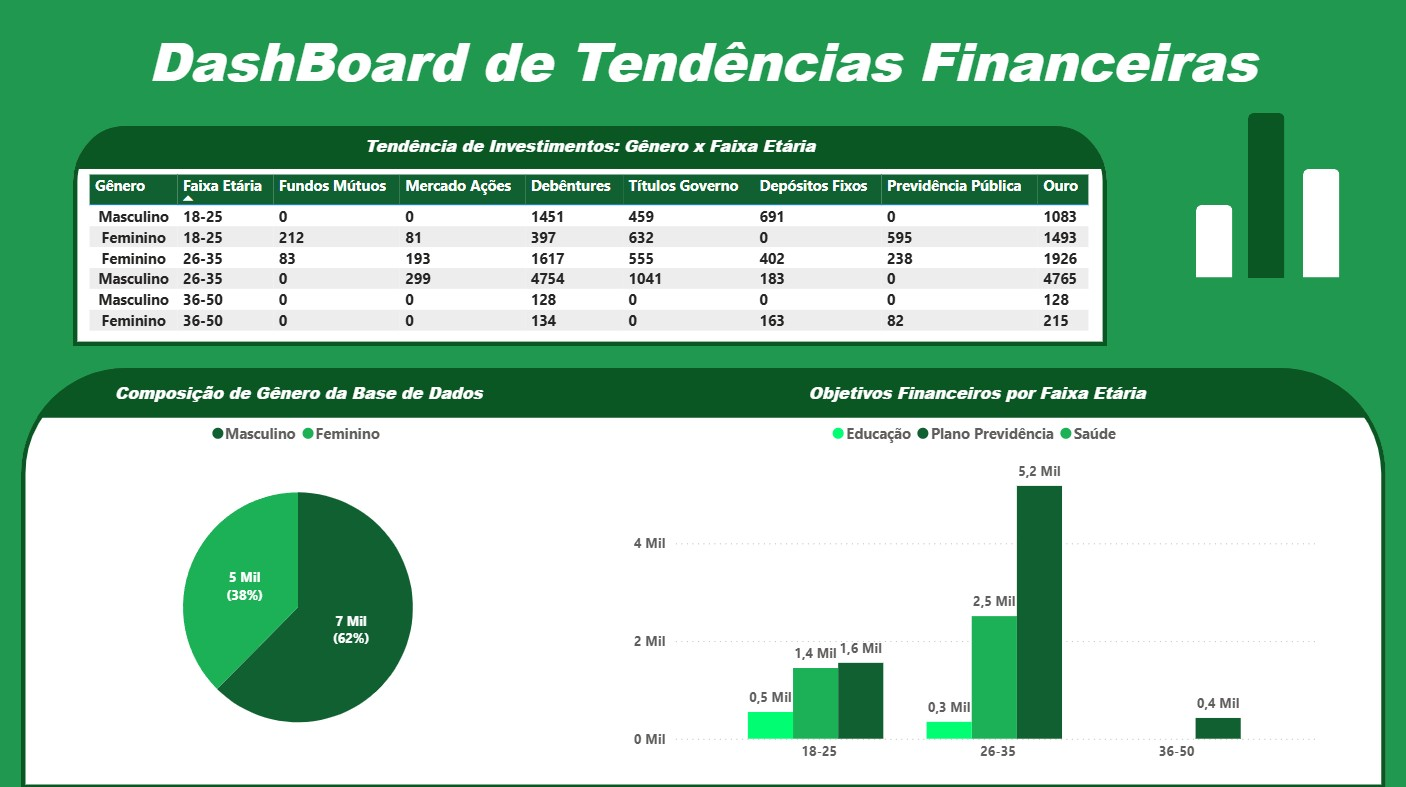
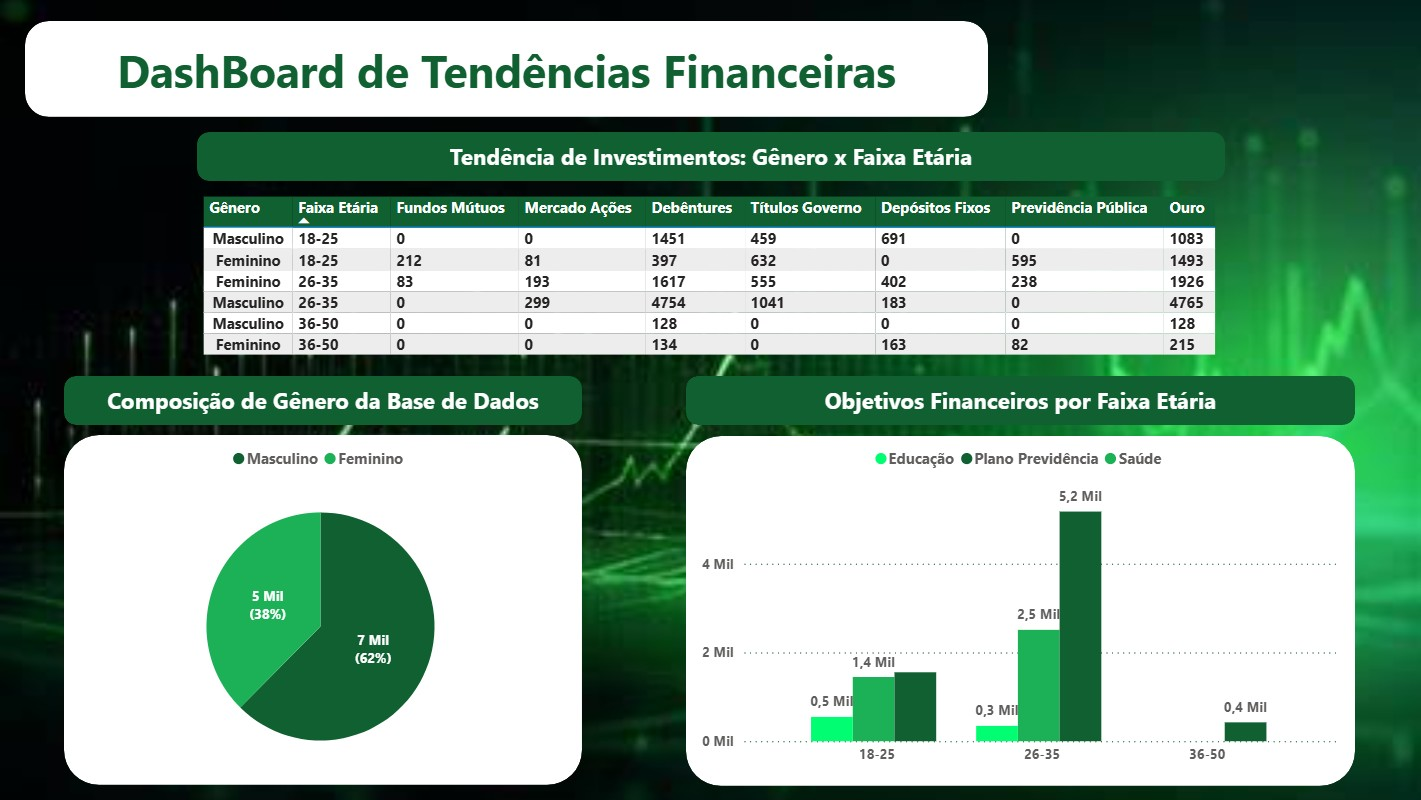
ajustes Inicio, idade, certificados, projetos

diff --git a/index.html b/index.html
@@ -36,7 +36,7 @@
             <div class="hero-content">
                 <h1>Olá, me chamo</h1>
                 <h2>João Paulo Veres</h2>
-                <p class="subtitulo">Desenvolvedor Python e Analista de Dados</p>
+                <p class="subtitulo">Analista de Dados e Power BI</p>
             </div>
             
             <div class="scroll-indicator">
@@ -79,7 +79,7 @@
                         </div>
                         <div class="info-item">
                             <span class="icone">🎂</span>
-                            <span class="texto">Idade: 24 Anos</span>
+                            <span class="texto">Idade: 25 Anos</span>
                         </div>
                         <div class="info-item">
                             <span class="icone">🌍</span>
@@ -165,50 +165,17 @@
                 <div class="certificados-grid">
                     
                     <!-- Certificado 1 -->
-                    <div class="certificado-card" data-certificado="ia-pratica">
-                        <div class="certificado-preview">
-                            <div class="certificado-icon">
-                                <i class="fas fa-robot"></i>
-                            </div>
-                            <h4>IA na Prática</h4>
-                            <span class="certificado-instituicao">Daxus</span>
-                        </div>
-                    </div>
-
-                    <!-- Certificado 2 -->
-                    <div class="certificado-card" data-certificado="cfc-2025">
-                        <div class="certificado-preview">
-                            <div class="certificado-icon">
-                                <i class="fas fa-calculator"></i>
-                            </div>
-                            <h4>CFC 2025.1</h4>
-                            <span class="certificado-instituicao">Exame de Suficiência</span>
-                        </div>
-                    </div>
-
-                    <!-- Certificado 3 -->
-                    <div class="certificado-card" data-certificado="lifelong-learning">
-                        <div class="certificado-preview">
-                            <div class="certificado-icon">
-                                <i class="fas fa-graduation-cap"></i>
-                            </div>
-                            <h4>Lifelong Learning</h4>
-                            <span class="certificado-instituicao">Certiprof</span>
-                        </div>
-                    </div>
-
-                    <!-- Certificado 4 -->
-                    <div class="certificado-card" data-certificado="scrum-foundation">
+                    <div class="certificado-card" data-certificado="intensivao-bi">
                         <div class="certificado-preview">
                             <div class="certificado-icon">
                                 <i class="fas fa-tasks"></i>
                             </div>
-                            <h4>Scrum Foundation</h4>
-                            <span class="certificado-instituicao">Certiprof</span>
+                            <h4>Intensivão Power BI</h4>
+                            <span class="certificado-instituicao">Hashtag Treinamentos</span>
                         </div>
                     </div>
 
-                    <!-- Certificado 5 -->
+                    <!-- Certificado 2 -->
                     <div class="certificado-card" data-certificado="imersao-dados">
                         <div class="certificado-preview">
                             <div class="certificado-icon">
@@ -219,7 +186,7 @@
                         </div>
                     </div>
 
-                    <!-- Certificado 6 -->
+                    <!-- Certificado 3 -->
                     <div class="certificado-card" data-certificado="jornada-python">
                         <div class="certificado-preview">
                             <div class="certificado-icon">
@@ -229,15 +196,37 @@
                             <span class="certificado-instituicao">Hashtag Treinamentos</span>
                         </div>
                     </div>
-
-                    <!-- Certificado 7 -->
-                    <div class="certificado-card" data-certificado="intensivao-bi">
+                    
+                    <!-- Certificado 4 -->
+                    <div class="certificado-card" data-certificado="mapeamento-processos">
                         <div class="certificado-preview">
                             <div class="certificado-icon">
                                 <i class="fas fa-tasks"></i>
                             </div>
-                            <h4>Intensivão Power BI</h4>
-                            <span class="certificado-instituicao">Hashtag Treinamentos</span>
+                            <h4>Mapeamento e Análise de Processos</h4>
+                            <span class="certificado-instituicao">PUCRS</span>
+                        </div>
+                    </div>
+
+                    <!-- Certificado 5 -->
+                    <div class="certificado-card" data-certificado="ia-pratica">
+                        <div class="certificado-preview">
+                            <div class="certificado-icon">
+                                <i class="fas fa-robot"></i>
+                            </div>
+                            <h4>IA na Prática</h4>
+                            <span class="certificado-instituicao">Daxus</span>
+                        </div>
+                    </div>
+                    
+                    <!-- Certificado 6 -->
+                    <div class="certificado-card" data-certificado="cfc-2025">
+                        <div class="certificado-preview">
+                            <div class="certificado-icon">
+                                <i class="fas fa-calculator"></i>
+                            </div>
+                            <h4>CFC 2025.1</h4>
+                            <span class="certificado-instituicao">Exame de Suficiência</span>
                         </div>
                     </div>
                 </div>
@@ -288,7 +277,7 @@
             </div>
             
             <div class="projetos-grid">
-                <div class="projeto-card">
+                <div class="projeto-card" data-github=https://github.com/MachulaJR/Finance_BI#">
                     <div class="projeto-imagem">
                         <img src="assets/img/projetos/finance-bi.jpg" alt="Projeto Finance BI">
                     </div>
@@ -303,7 +292,7 @@
                     </div>
                 </div>
             
-                <div class="projeto-card">
+                <div class="projeto-card" data-github="https://github.com/MachulaJR/Data-BI">
                     <div class="projeto-imagem">
                         <img src="assets/img/projetos/data-bi.jpg" alt="Projeto Data BI">
                     </div>
@@ -318,7 +307,7 @@
                     </div>
                 </div>
 
-                <div class="projeto-card">
+                <div class="projeto-card" data-github=https://github.com/MachulaJR/Python_ETL_SQL">
                     <div class="projeto-imagem">
                         <img src="assets/img/projetos/python-etl-sql.jpg" alt="Projeto ETL">
                     </div>
@@ -332,7 +321,7 @@
                     </div>
                 </div>
 
-                <div class="projeto-card">
+                <div class="projeto-card" data-github="https://github.com/MachulaJR/API-_Clima">
                     <div class="projeto-imagem">
                         <img src="assets/img/projetos/api-clima.jpg" alt="API Clima">
                     </div>
@@ -345,7 +334,7 @@
                         <p>Projeto em Python + Streamlit + Plotly para consultar dados meteorológicos da API Open-Meteo, processar e visualizar em um dashboard interativo.</p>
                     </div>
                 </div>
-                <div class="projeto-card">
+                <div class="projeto-card" data-github="https://github.com/MachulaJR/API-_Clima">
                     <div class="projeto-imagem">
                         <img src="assets/img/projetos/apasfa-site.jpg" alt="Site Apasfa">
                     </div>

diff --git a/main.js b/main.js
@@ -29,22 +29,7 @@ document.addEventListener('DOMContentLoaded', function() {
             imagemUrl: 'assets/img/certificados/cfc-2025.jpg', // Substitua pela URL real
             verificacaoUrl: '#'
         },
-        'lifelong-learning': {
-            titulo: 'Lifelong Learning',
-            instituicao: 'CertiProf',
-            descricao: 'Certificação internacional em aprendizado contínuo e desenvolvimento profissional. Focado em metodologias de autodesenvolvimento, adaptação às mudanças tecnológicas e crescimento profissional sustentável.',
-            competencias: ['Autodesenvolvimento', 'Adaptabilidade', 'Metodologias de Aprendizado', 'Mindset de Crescimento', 'Inovação'],
-            imagemUrl: 'assets/img/certificados/lifelong-learning.jpg', // Substitua pela URL real
-            verificacaoUrl: '#'
-        },
-        'scrum-foundation': {
-            titulo: 'Scrum Foundation',
-            instituicao: 'CertiProf',
-            descricao: 'Certificação fundamental em metodologia Scrum e práticas ágeis. Conhecimentos essenciais sobre framework Scrum para gestão de projetos, desenvolvimento de software e liderança de equipes ágeis.',
-            competencias: ['Scrum Framework', 'Metodologias Ágeis', 'Gestão de Projetos', 'Trabalho em Equipe', 'Sprint Planning'],
-            imagemUrl: 'assets/img/certificados/scrum-foundation.jpg', // Substitua pela URL real
-            verificacaoUrl: '#'
-        },
+
         'imersao-dados': {
             titulo: 'Imerão Dados Alura',
             instituicao: 'Alura',
@@ -68,7 +53,15 @@ document.addEventListener('DOMContentLoaded', function() {
             competencias: ['Análise de Dados', 'Power Query', 'DAX', 'Modelagem de Dados', 'Visualização Gráfica', 'Construção de Dashboards'],
             imagemUrl: 'assets/img/certificados/intensivao-bi.jpg', // Substitua pela URL real
             verificacaoUrl: '#'            
-        }        
+        },
+        'mapeamento-processos': {
+            titulo: 'Mapeamento e Análise de Processos',
+            instituicao: 'PUCRS',
+            descricao: 'Curso de extensão voltado à gestão por processos, com foco em mapeamento, análise e melhoria contínua de fluxos administrativos e produtivos. Formação pela PUCRS, abordando práticas Lean e ferramentas visuais para otimização de processos e aumento de eficiência organizacional.',
+            competencias: ['Gestão por Processos', 'Melhoria de Processos', 'Mapeamento de Fluxo de Valor', 'Análise de Processos'],
+            imagemUrl: 'assets/img/certificados/mapeamento-processos.jpg', // Substitua pela URL real
+            verificacaoUrl: '#'            
+        }         
     };
 
     // Função para abrir o modal
@@ -284,4 +277,18 @@ document.addEventListener('DOMContentLoaded', function() {
 
     // Smooth scroll para seção (se navegação existir)
     const navLinks = document.querySelectorAll('a[href="#certificacoes"]');
+
+    // Clique nos cards de projeto → abre GitHub
+    const projetoCards = document.querySelectorAll('.projeto-card[data-github]');
+
+    projetoCards.forEach(card => {
+        card.style.cursor = 'pointer';
+
+        card.addEventListener('click', function () {
+            const url = this.getAttribute('data-github');
+            if (url && url !== '#') {
+                window.open(url, '_blank', 'noopener,noreferrer');
+            }
+        });
+    });
 });
